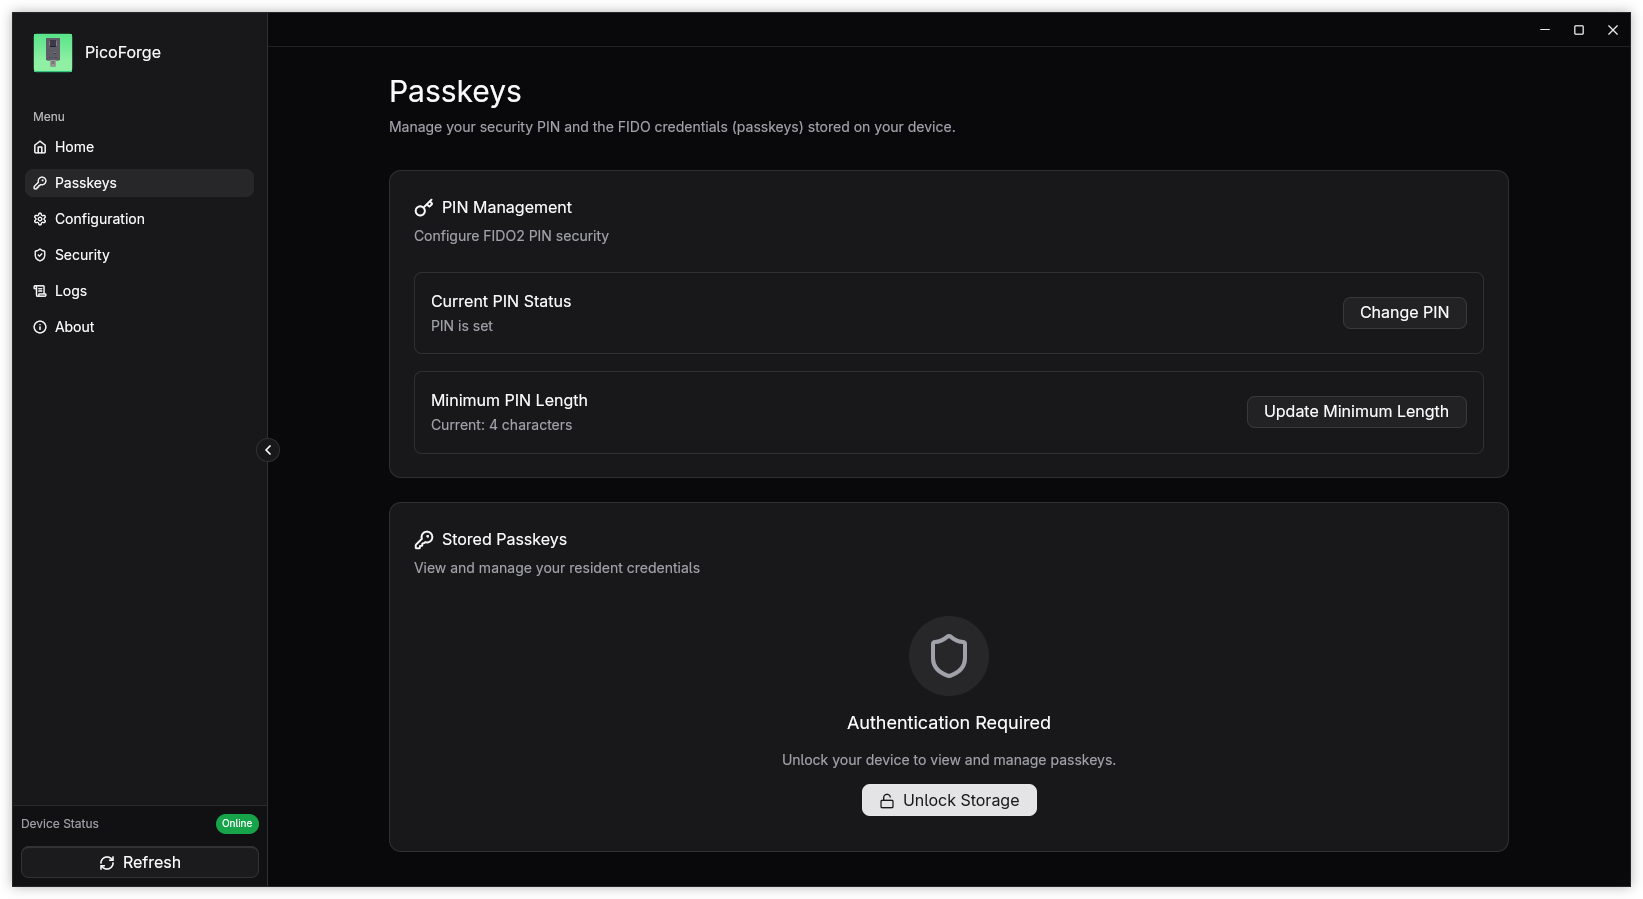
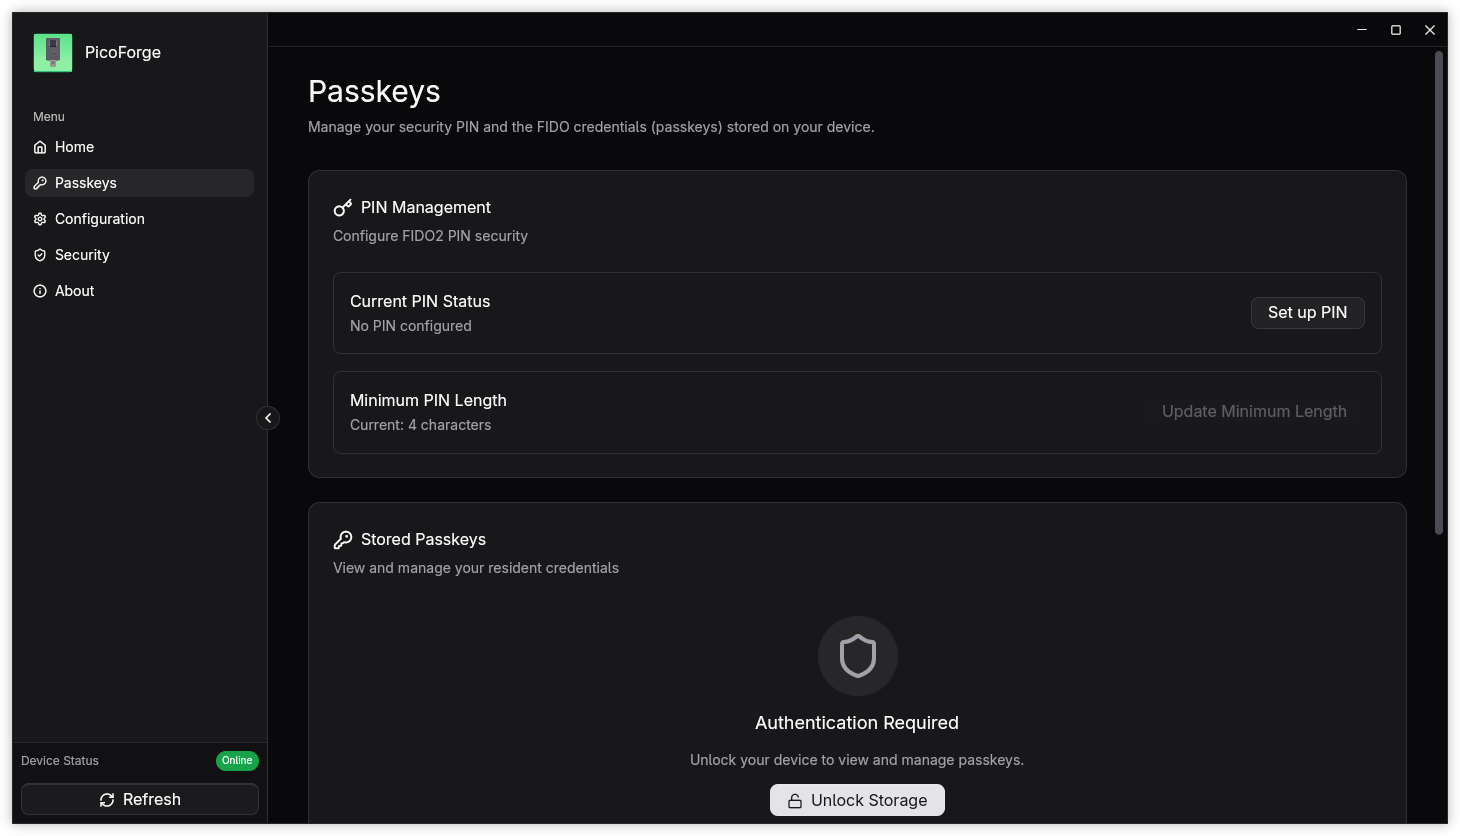
chore: update screenshots and readme.md

diff --git a/README.md b/README.md
@@ -36,7 +36,7 @@ PicoForge is a modern desktop application for configuring and managing Pico FIDO
 - Real-time system logging and diagnostics
 - Support for multiple hardware variants and vendors
 
-> **BETA Status**: This application is currently under active development and in beta stage. Users should expect bugs and are encouraged to report them. The app has been tested on Linux and Windows 10 with the official Raspberry Pi Pico2 & ESP32-S3 and, currently targets Pico FIDO firmware version 7.6, with limited legacy FIDO-only configuration support for 7.0/7.2.
+> **BETA Status**: This application is currently under active development and in beta stage. Users should expect bugs and are encouraged to report them. The app has been tested on Linux and Windows 10 with the official Raspberry Pi Pico2 & ESP32-S3 and, currently targets Pico FIDO firmware version 7.6 and LibreKeys One version 7.4.2, with limited legacy FIDO-only configuration support for 7.0/7.2.
 
 ## Screenshots
 